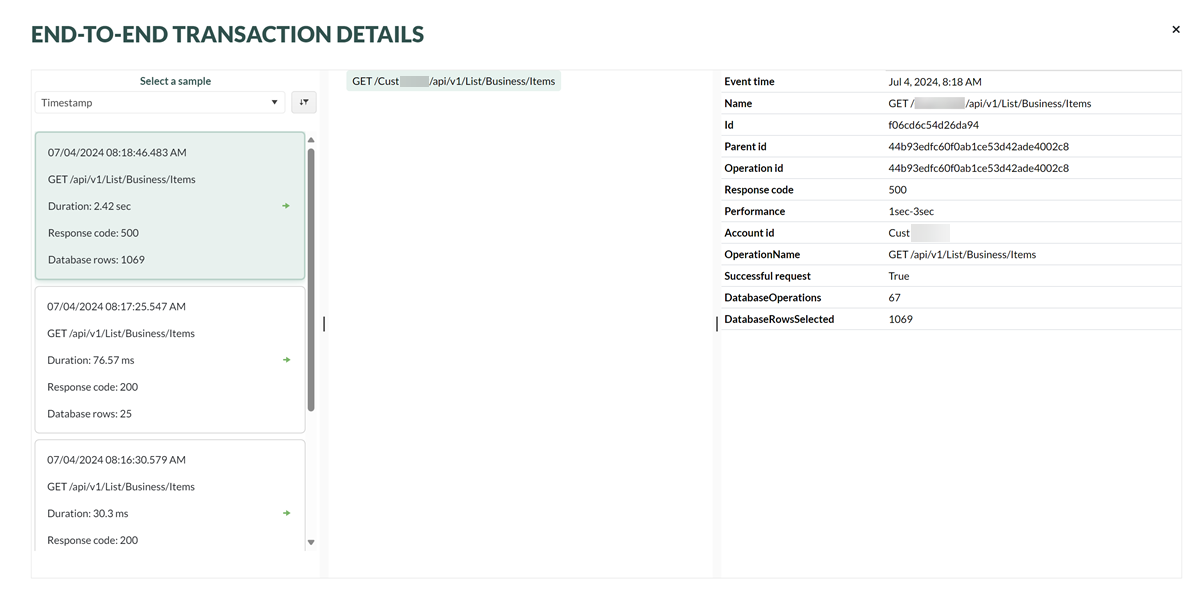
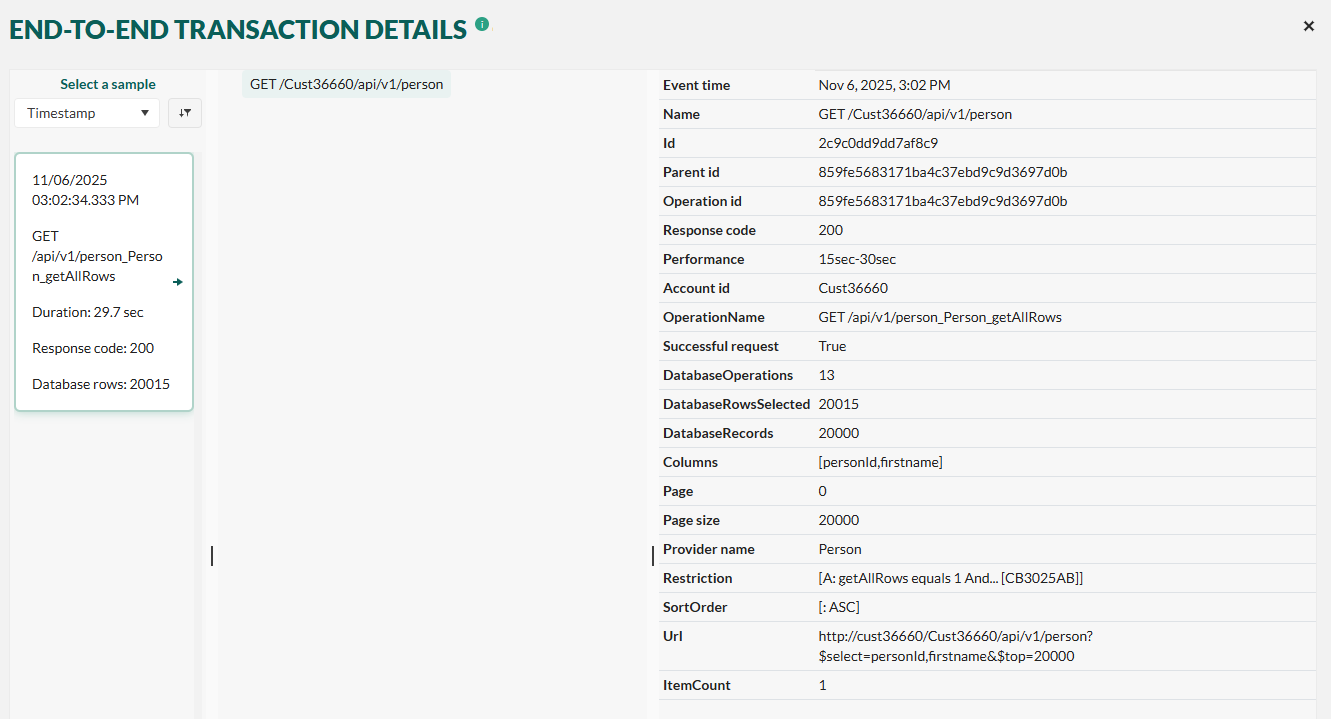
Updated API metrics information. (#2484)
* Updated API metrics information.

* #[2474] Updated wrong text

* #[2474] Updated wrong text

* Update docs/en/developer-portal/analytics/metrics-performance.md

* Update docs/en/developer-portal/analytics/metrics-performance.md

* Update docs/en/developer-portal/analytics/metrics-performance.md

* Update docs/en/developer-portal/analytics/includes/improve-performance.md

---------

diff --git a/docs/en/developer-portal/analytics/metrics-performance.md b/docs/en/developer-portal/analytics/metrics-performance.md
@@ -37,7 +37,7 @@ The **API Performance tab** shows API-level application performance for one spec
 
 | Type of usage | Description |
 |---|---|
-| Operation Name | The URL endpoint. |
+| Operation Name | The API endpoint. |
 | Count | The number of API invocations to the endpoint. |
 | Record Count | The number of database records selected by the API invocation. |
 | Duration (AVG) | The average number number of milliseconds elapsed for each of all API invocations. |
@@ -65,6 +65,28 @@ When there are many rows, you can filter the list by typing in the search box. T
 
 * To return to the API Performance list, click the X in the upper-right corner.
 
+## Disable API request sampling
+
+Starting from SuperOffice version 10.5.1, API request sampling was introduced to reduce the volume of logged data and improve performance monitoring. By default, only a subset of API requests is recorded.
+However, sampling can be temporarily disabled if you need full visibility into all API traffic. This is especially useful when:
+
+* You're troubleshooting specific performance issues.
+* You need to verify the exact timing and frequency of API calls.
+* You're analyzing detailed request patterns for optimization.
+
+To disable sampling:
+
+1. Click the settings icon (cogwheel) to edit setting.
+
+    ![Disable API request sampling -screenshot][img4]
+
+2. Set the end time for the period during which sampling should be disabled for a specific app.
+
+3. During this period, every API request will be logged and visible in, you will see itemCount = 1.
+
+> [!NOTE]
+> Disabling sampling may increase the volume of logged data, so it's recommended to use this feature only when necessary and for limited timeframes.
+
 ## Improve app performance
 
 [!include[Best practices](includes/improve-performance.md)]
@@ -77,3 +99,5 @@ During development, following the statistics in SOD day-by-day can provide valua
 [img1]: media/metrics-performance-landing.png
 [img2]: media/metrics-performance-selected-row.png
 [img3]: media/metrics-performance-selected-sample.png
+[img4]: media/metrics-disable-sampling.png
+

diff --git a/docs/en/developer-portal/analytics/includes/improve-performance.md b/docs/en/developer-portal/analytics/includes/improve-performance.md
@@ -1,7 +1,22 @@
 <!-- markdownlint-disable-file MD041 -->
 Leverage our [best practices for online app development][2] to both boost your application's performance and reduce its API usage. Both [caching][3] and [search][4] have a huge impact.
 
+Additional columns from SuperOffice version 10.5.1
+
+| Column | Description |
+|---|---|
+| NsApiSlow | True if API call is higher than treshold. You will find tresholds for methods in our documentation. |
+| providerName | The [archive provider][5] used in the request (e.g., contact, sale, project). Knowing the provider helps identify the data source and optimize queries accordingly. |
+| columns | Specifies which columns are requested from the archive provider. Best practice: Limit the number of columns to only those needed to reduce payload size and improve performance.  |
+| restriction | Filters applied to the search query. Tip: Use indexed fields and avoid complex expressions to enhance query speed. |
+| pageSize| Number of items returned per page. Default is 1000.  |
+| page | The page number of the result set. Useful for paginated queries. |
+| sortOrder | Sorting applied to the result set, if any. Note: Sorting on indexed fields is faster. Avoid sorting on calculated or non-indexed fields. |
+| itemCount | Number of similar API calls made in the past 24 hours. Can be used to identify high-traffic endpoints and optimize caching or batching strategies. |
+| url | The full URL of the API request. Useful for debugging and reproducing queries. |
+
 <!-- Referenced links -->
 [2]: ../../best-practices/index.md
 [3]: ../../best-practices/index.md#caching
 [4]: ../../best-practices/index.md#searching
+[5]: ../../../api/netserver/archive-providers/reference/index.md
